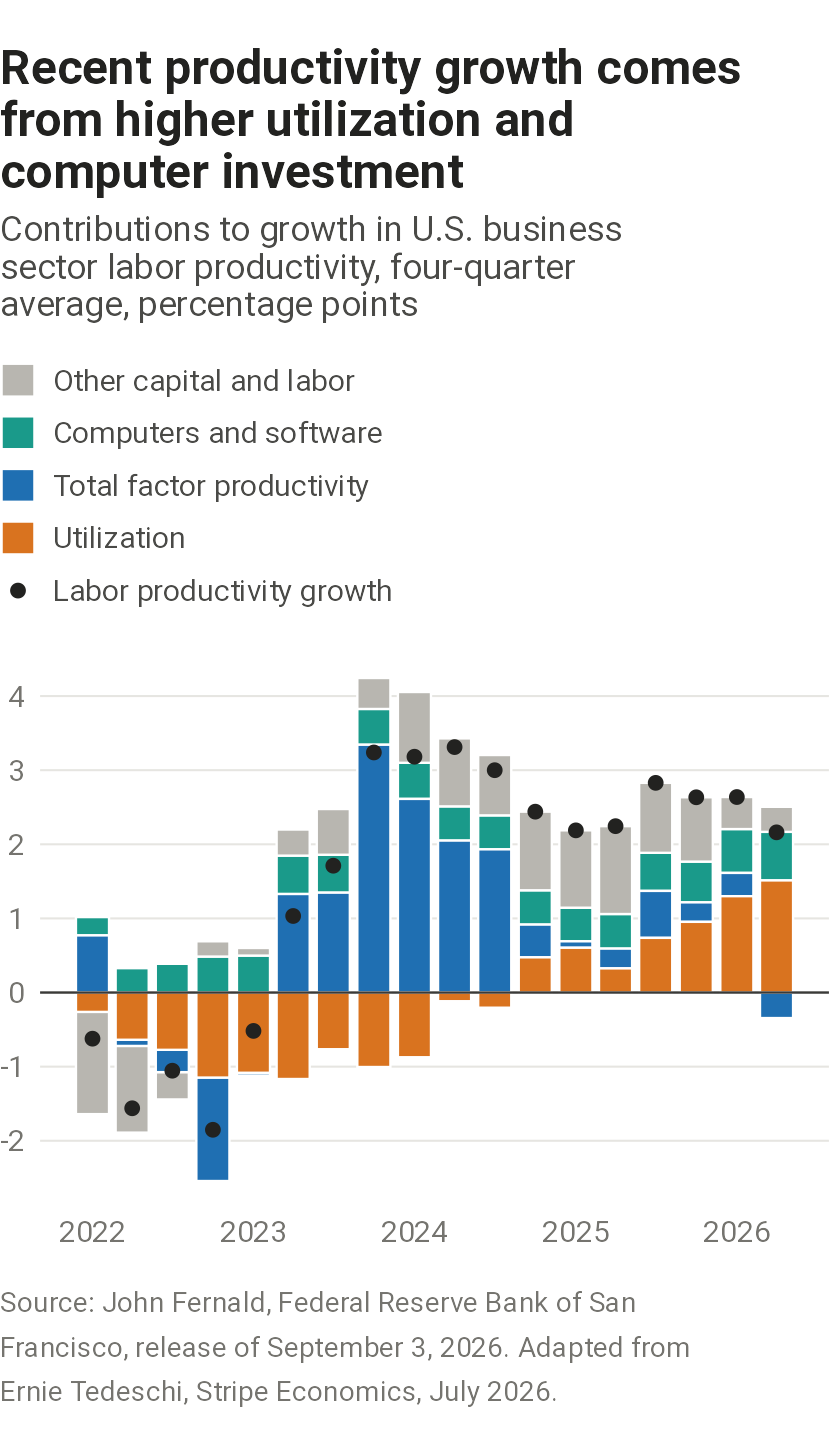
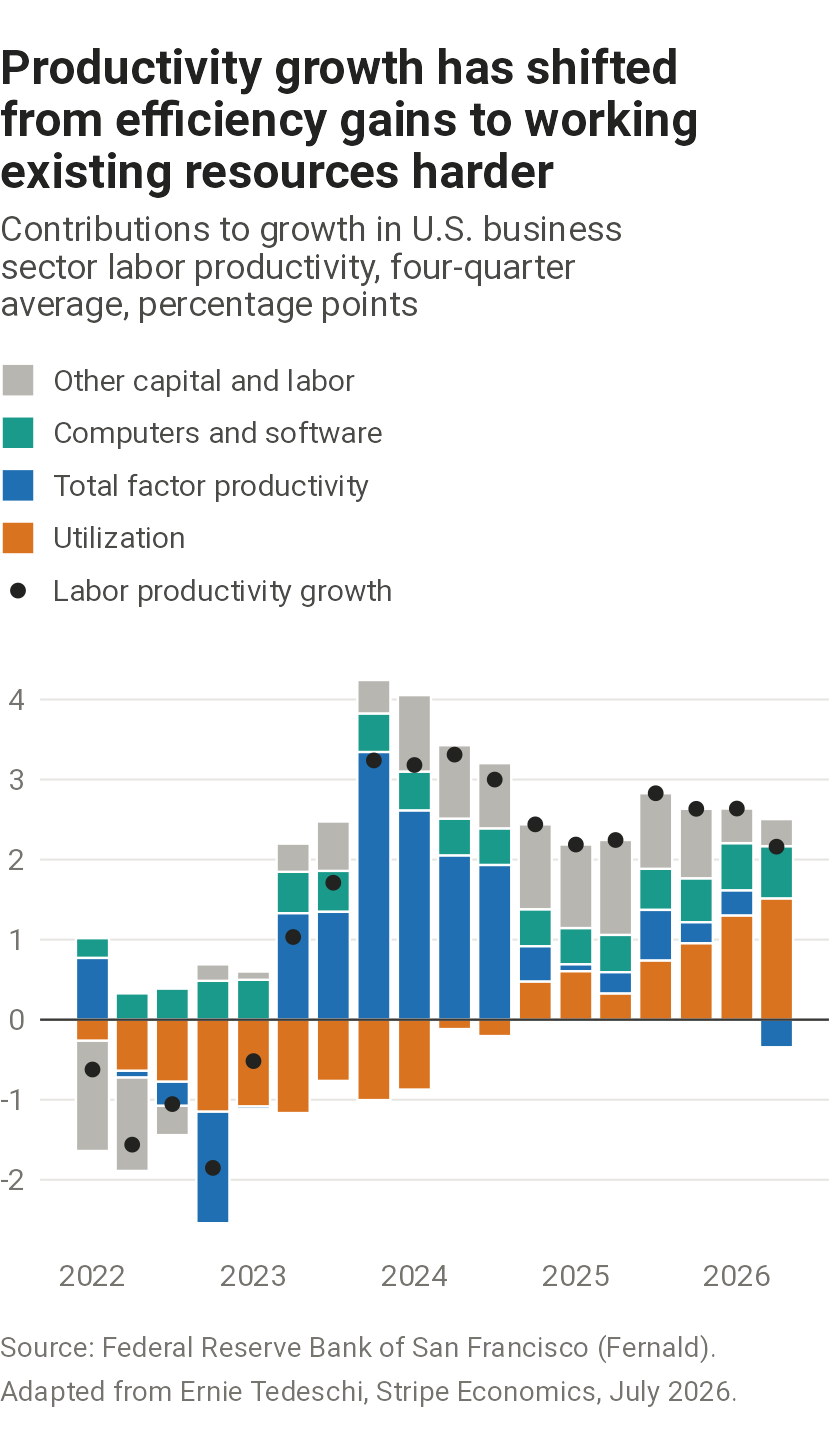
Retitle the productivity chart and tighten its text
Title states the shift from efficiency gains to utilization. Text drops
the dated quarter and gives each sentence one job. Source line drops
the release date, which the notes keep.

Claude-Session: https://claude.ai/code/session_01C4kQtTHdakDNHHerQuEFwM

diff --git a/charts/productivity-decomposition/spec.md b/charts/productivity-decomposition/spec.md
@@ -84,3 +84,4 @@ Record decisions here with a date and the reason.
 - 2026-09-26: Added the four-component version. Four-quarter averages, 2026 Q2: labor productivity 2.16, utilization 1.51, computer and software capital deepening 0.66, other deepening and labor composition 0.34, utilization-adjusted TFP -0.34. Computer and software deepening has risen every quarter since 2025 Q2 (0.47).
 - 2026-09-26: Components are four-quarter trailing means of the quarterly annualized log changes. A black point shows labor productivity growth itself, since stacked bars with negative segments make the total hard to read.
 - 2026-09-26: Publish the four-component version only. It answers whether AI is raising productivity through investment, efficiency, or neither. Short legend labels, each defined in one line of the notes. Title: "Recent productivity growth comes from higher utilization and computer investment."
+- 2026-09-26: Title: "Productivity growth has shifted from efficiency gains to working existing resources harder." States the change the chart shows, from total factor productivity in 2023 and 2024 to utilization since 2025. Check on each refresh that utilization still leads and total factor productivity is still small.

diff --git a/charts/productivity-decomposition/output/productivity-decomposition-lead.md b/charts/productivity-decomposition/output/productivity-decomposition-lead.md
@@ -1,1 +1,1 @@
-Productivity growth remains solid, but it comes from businesses using their workers and equipment more intensively and from investment in computers, not from efficiency gains. Labor productivity grew 2.2 percent over the four quarters through 2026 Q2. Higher utilization added 1.5 points and computers and software 0.7, while total factor productivity, the best gauge of efficiency, subtracted 0.3. It had added as much as 3.3 points in 2023.
+Productivity growth remains solid, but it now comes from businesses working their existing staff and equipment harder and from investment in computers, not from efficiency gains. Labor productivity grew 2.2 percent over the past four quarters. Higher utilization added 1.5 percentage points and computers and software 0.7. Total factor productivity, the best gauge of efficiency, subtracted 0.3 point, after adding as much as 3.3 points in 2023.
